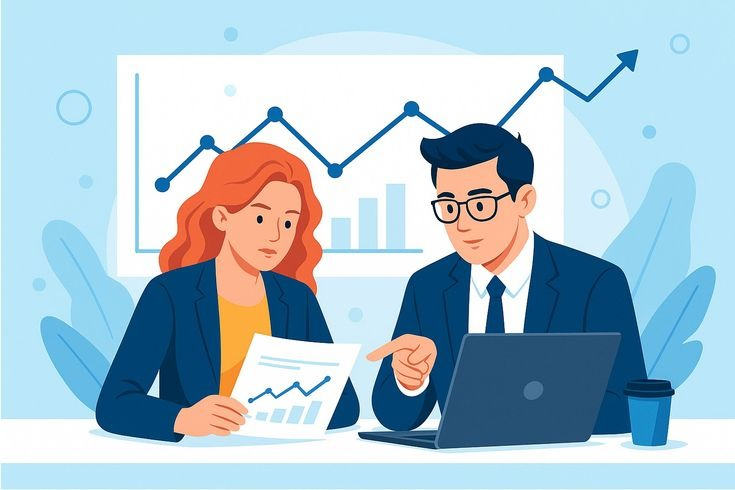
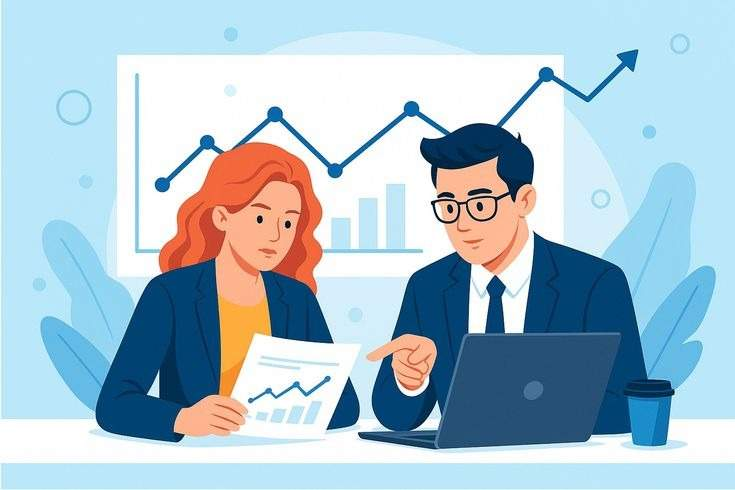
perf: compress homepage images and defer HubSpot tracking script post-load for 90+ desktop score

diff --git a/public/index.html b/public/index.html
@@ -103,11 +103,21 @@
     }
     </script>
 
-    <!-- Start of HubSpot Embed Tracking Code -->
+    <!-- Start of HubSpot Embed Tracking Code (Deferred post-load) -->
     <script type="text/javascript">
       window.hsConversationsSettings = { loadImmediately: false };
+      window.addEventListener('load', function() {
+        setTimeout(function() {
+          var s = document.createElement('script');
+          s.type = 'text/javascript';
+          s.id = 'hs-script-loader';
+          s.async = true;
+          s.defer = true;
+          s.src = 'https://js-na1.hs-scripts.com/21283859.js';
+          document.head.appendChild(s);
+        }, 2500);
+      });
     </script>
-    <script type="text/javascript" id="hs-script-loader" async defer src="https://js-na1.hs-scripts.com/21283859.js"></script>
     <!-- End of HubSpot Embed Tracking Code -->
 
     <style>
